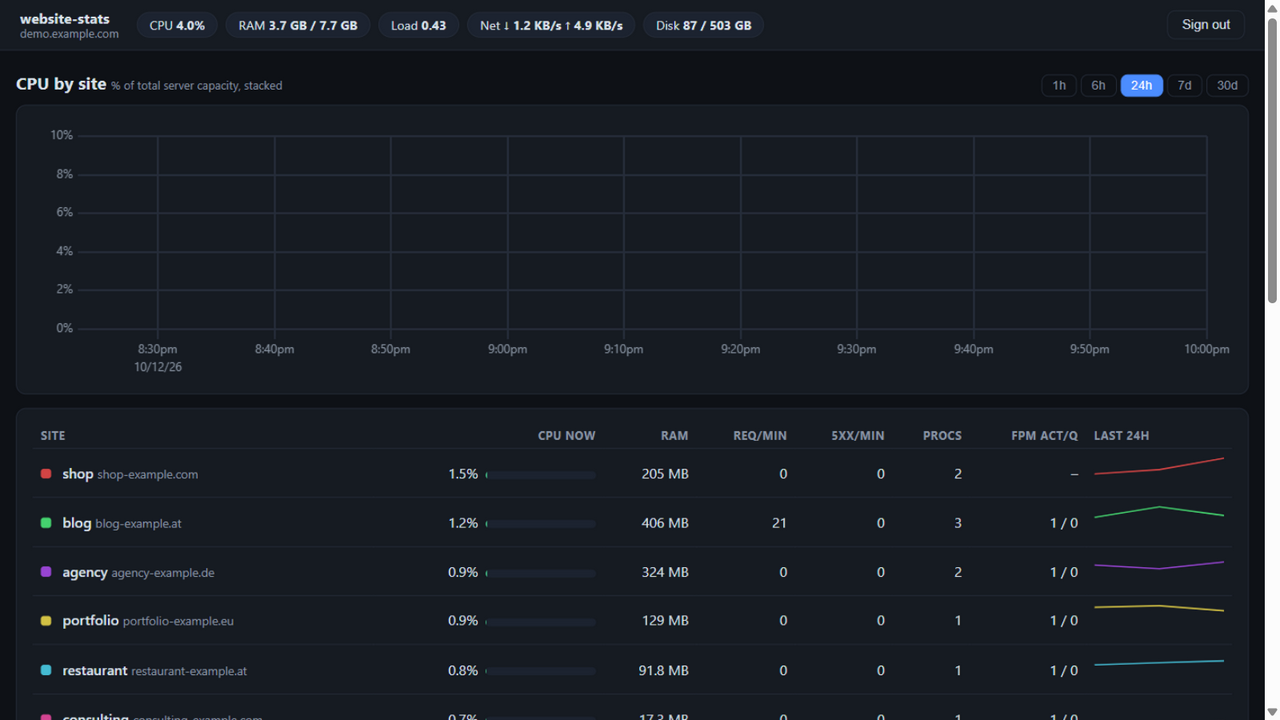
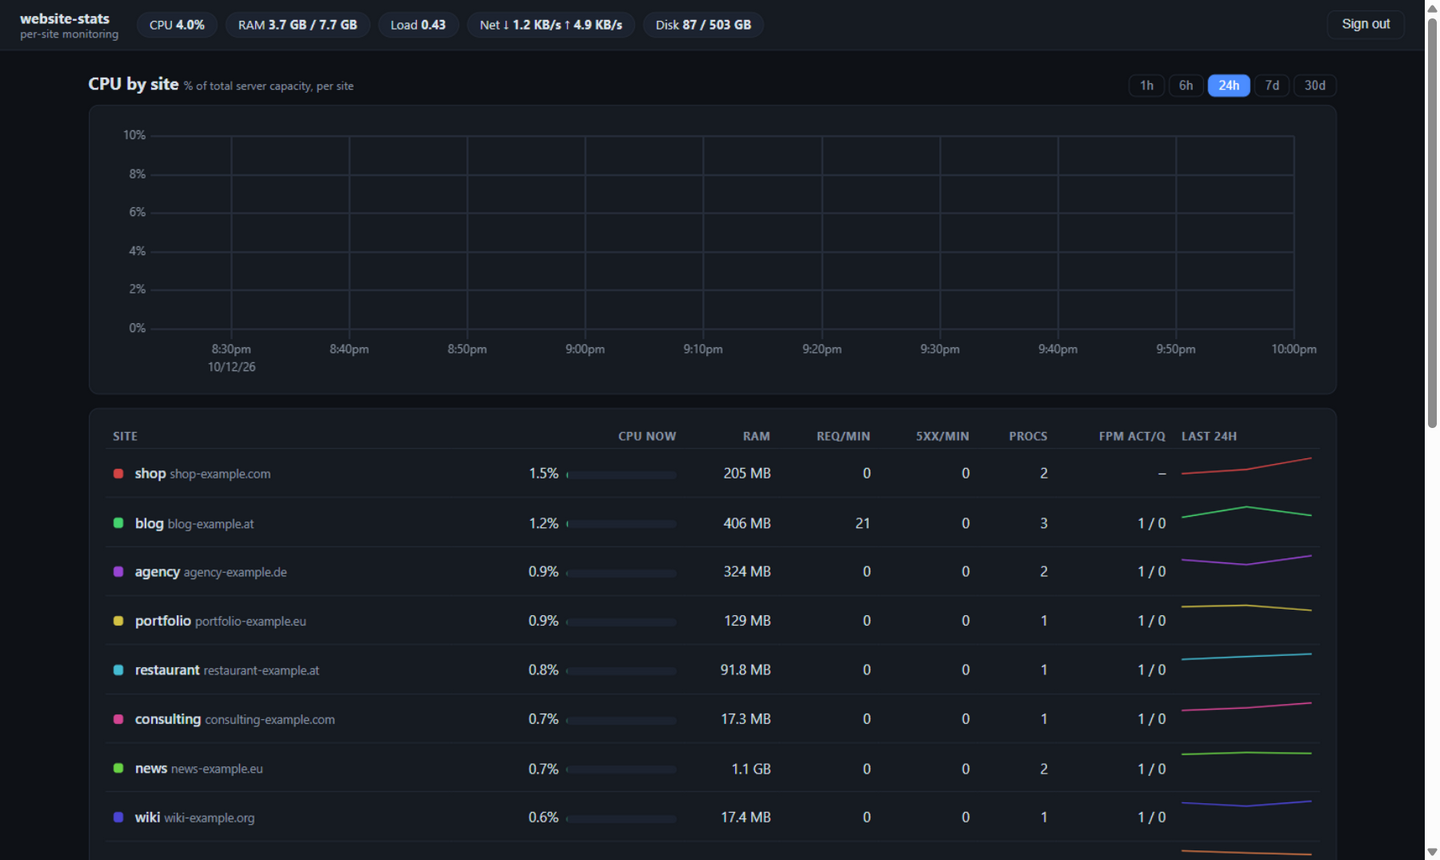
Rename project to SiteStats

diff --git a/internal/server/web/index.html b/internal/server/web/index.html
@@ -21,7 +21,7 @@
 
 <header class="topbar">
   <div class="brand">
-    <span class="brand-name">website-stats</span>
+    <span class="brand-name">SiteStats</span>
     <span class="brand-host">per-site monitoring</span>
   </div>
   <div class="chips" id="chips"></div>
@@ -88,6 +88,6 @@
 <footer>website-stats <span id="ver"></span> · times in your local timezone</footer>
 
 <script src="/static/uplot.iife.min.js?v=13"></script>
-<script src="/static/app.js?v=13"></script>
+<script src="/static/app.js?v=14"></script>
 </body>
 </html>

diff --git a/internal/server/web/app.js b/internal/server/web/app.js
@@ -33,7 +33,7 @@ function colorFor(key) {
     const g = Math.round(hue2rgb(pp, q, hue) * 255);
     const b = Math.round(hue2rgb(pp, q, hue - 1 / 3) * 255);
     const hex = "#" + [r, g, b].map((v) => v.toString(16).padStart(2, "0")).join("");
-    state.palette[key] = { hue: h * 360, css: hex, fill: `rgba(${r},${g},${b},0.82)` };
+    state.palette[key] = { css: hex, fill: `rgba(${r},${g},${b},0.82)` };
   }
   return state.palette[key];
 }

diff --git a/scripts/gen-demo.py b/scripts/gen-demo.py
@@ -1,22 +1,77 @@
-"""Regenerates build/repro/demo.html from the real index.html with a stubbed
-fetch serving build/repro/overview.json. Used to produce demo screenshots."""
+"""Builds build/repro/demo.html — the real dashboard UI rendered from an
+anonymized snapshot of captured API data. Used to produce README screenshots.
+
+Run from the repo root:  python scripts/gen-demo.py
+Requires build/captured-overview.json (a captured /api/overview response).
+"""
 import io
 import json
 import os
 import re
+import time
 
 ROOT = os.path.dirname(os.path.dirname(os.path.abspath(__file__)))
+REPRO = os.path.join(ROOT, "build", "repro")
+os.makedirs(REPRO, exist_ok=True)
 
+# ---- 1. load + anonymize + scale the captured overview ----
+ov = json.load(io.open(os.path.join(ROOT, "build", "captured-overview.json"), encoding="utf-8"))
+
+fake_domains = ["shop-example.com", "blog-example.at", "agency-example.de", "portfolio-example.eu",
+                "restaurant-example.at", "consulting-example.com", "news-example.eu", "wiki-example.org",
+                "app-example.io", "community-example.net", "docs-example.dev", "status-example.live",
+                "store-example.shop", "travel-example.at", "legal-example.de", "photo-example.com",
+                "school-example.edu", "events-example.at", "clinic-example.com", "foundation-example.org"]
+fake_names = ["shop", "blog", "agency", "portfolio", "restaurant", "consulting", "news", "wiki",
+              "app", "community", "docs", "status", "store", "travel", "legal", "photo",
+              "school", "events", "clinic", "foundation"]
+
+ip_map = {}
+def anon_ip(ip):
+    if ip not in ip_map:
+        ip_map[ip] = "198.51.100." + str(len(ip_map) % 254 + 1)
+    return ip_map[ip]
+
+SCALE = 6  # multiply CPU values so the demo chart bands are clearly visible
+
+for i, s in enumerate(ov.get("sites", [])):
+    if s["name"] == "_sys":
+        s["domain"] = "System services"
+    else:
+        if i < len(fake_names):
+            s["name"] = fake_names[i]
+            s["domain"] = fake_domains[i]
+    if s.get("series"):
+        s["series"] = [[t, round(v * SCALE, 2) if isinstance(v, (int, float)) else v] for t, v in s["series"]]
+    if s.get("topUrls"):
+        for u in s["topUrls"]:
+            u["value"] = u["value"].replace("translera", "myplugin")
+    if s.get("topIps"):
+        for u in s["topIps"]:
+            u["value"] = anon_ip(u["value"])
+ov["events"] = []
+
+# ---- 2. copy the real UI assets ----
+for name in ("uplot.iife.min.js", "app.js", "app.css"):
+    src = io.open(os.path.join(ROOT, "internal", "server", "web", name), encoding="utf-8").read()
+    io.open(os.path.join(REPRO, name), "w", encoding="utf-8", newline="\n").write(src)
+
+# ---- 3. build demo.html from the real index.html ----
 html = io.open(os.path.join(ROOT, "internal", "server", "web", "index.html"), encoding="utf-8").read()
 html = html.replace("<title>website-stats · cp1</title>", "<title>website-stats demo</title>")
 html = html.replace("cp1.reventor.eu", "demo.example.com")
 html = html.replace("/static/", "")
 html = re.sub(r"(\.js|\.css)\?v=\d+", r"\1", html)
-overview = io.open(os.path.join(ROOT, "build", "repro", "overview.json"), encoding="utf-8").read()
+
+overview_json = json.dumps(ov)
+v = str(int(time.time()))
+html = html.replace('<link rel="stylesheet" href="app.css">', f'<link rel="stylesheet" href="app.css?v={v}">')
+html = html.replace('<script src="uplot.iife.min.js">', f'<script src="uplot.iife.min.js?v={v}">')
+html = html.replace('<script src="app.js">', f'<script src="app.js?v={v}">')
 
 stub = (
     "<script>\n"
-    "const OVERVIEW = " + overview + ";\n"
+    "const OVERVIEW = " + overview_json + ";\n"
     "window.fetch = (url) => {\n"
     "  const u = String(url);\n"
     '  let body = "[]";\n'
@@ -25,13 +80,12 @@ stub = (
     '  return Promise.resolve(new Response(body, {status:200, headers:{"Content-Type":"application/json"}}));\n'
     "};\n"
     "</script>\n"
-    '<script src="uplot.iife.min.js"></script>'
 )
-tag = '<script src="uplot.iife.min.js"></script>'
-assert tag in html, "uplot script tag not found in index.html"
-html = html.replace(tag, stub)
+tag = '<script src="uplot.iife.min.js'
+assert tag in html, "uplot script tag not found"
+html = html.replace(tag, stub + tag)
 assert "loginForm" in html
 
-out = os.path.join(ROOT, "build", "repro", "demo.html")
+out = os.path.join(REPRO, "demo.html")
 io.open(out, "w", encoding="utf-8", newline="\n").write(html)
 print("demo.html written:", out)

diff --git a/cmd/sitestats/main.go b/cmd/sitestats/main.go
@@ -20,12 +20,12 @@ import (
 	"golang.org/x/term"
 	"gopkg.in/yaml.v3"
 
-	"website-stats/internal/alerter"
-	"website-stats/internal/config"
-	"website-stats/internal/engine"
-	"website-stats/internal/server"
-	"website-stats/internal/sites"
-	"website-stats/internal/store"
+	"github.com/REVENTOR-EU/SiteStats/internal/alerter"
+	"github.com/REVENTOR-EU/SiteStats/internal/config"
+	"github.com/REVENTOR-EU/SiteStats/internal/engine"
+	"github.com/REVENTOR-EU/SiteStats/internal/server"
+	"github.com/REVENTOR-EU/SiteStats/internal/sites"
+	"github.com/REVENTOR-EU/SiteStats/internal/store"
 )
 
 var configPaths = []string{

diff --git a/internal/engine/collector.go b/internal/engine/collector.go
@@ -9,11 +9,11 @@ import (
 	"sync/atomic"
 	"time"
 
-	"website-stats/internal/alerter"
-	"website-stats/internal/collect"
-	"website-stats/internal/config"
-	"website-stats/internal/sites"
-	"website-stats/internal/store"
+	"github.com/REVENTOR-EU/SiteStats/internal/alerter"
+	"github.com/REVENTOR-EU/SiteStats/internal/collect"
+	"github.com/REVENTOR-EU/SiteStats/internal/config"
+	"github.com/REVENTOR-EU/SiteStats/internal/sites"
+	"github.com/REVENTOR-EU/SiteStats/internal/store"
 )
 
 // Collector runs all collectors on their tickers and assembles per-minute

diff --git a/internal/server/server.go b/internal/server/server.go
@@ -16,10 +16,10 @@ import (
 
 	"golang.org/x/crypto/bcrypt"
 
-	"website-stats/internal/collect"
-	"website-stats/internal/config"
-	"website-stats/internal/engine"
-	"website-stats/internal/store"
+	"github.com/REVENTOR-EU/SiteStats/internal/collect"
+	"github.com/REVENTOR-EU/SiteStats/internal/config"
+	"github.com/REVENTOR-EU/SiteStats/internal/engine"
+	"github.com/REVENTOR-EU/SiteStats/internal/store"
 )
 
 //go:embed web

diff --git a/internal/alerter/alerter.go b/internal/alerter/alerter.go
@@ -6,8 +6,8 @@ import (
 	"fmt"
 	"time"
 
-	"website-stats/internal/collect"
-	"website-stats/internal/config"
+	"github.com/REVENTOR-EU/SiteStats/internal/collect"
+	"github.com/REVENTOR-EU/SiteStats/internal/config"
 )
 
 // Event is a fired alert.

diff --git a/internal/engine/demo.go b/internal/engine/demo.go
@@ -5,8 +5,8 @@ import (
 	"math"
 	"time"
 
-	"website-stats/internal/collect"
-	"website-stats/internal/sites"
+	"github.com/REVENTOR-EU/SiteStats/internal/collect"
+	"github.com/REVENTOR-EU/SiteStats/internal/sites"
 )
 
 type demoSim struct {

diff --git a/internal/alerter/notify.go b/internal/alerter/notify.go
@@ -9,7 +9,7 @@ import (
 	"strings"
 	"time"
 
-	"website-stats/internal/config"
+	"github.com/REVENTOR-EU/SiteStats/internal/config"
 )
 
 // NotifyEmail sends the alert via SMTP (STARTTLS when offered).

diff --git a/internal/collect/nginxlog.go b/internal/collect/nginxlog.go
@@ -9,7 +9,7 @@ import (
 	"sync"
 	"time"
 
-	"website-stats/internal/sites"
+	"github.com/REVENTOR-EU/SiteStats/internal/sites"
 )
 
 // TrafficMinute aggregates one site's HTTP traffic for one minute.

diff --git a/internal/collect/proc.go b/internal/collect/proc.go
@@ -8,7 +8,7 @@ import (
 	"strconv"
 	"time"
 
-	"website-stats/internal/sites"
+	"github.com/REVENTOR-EU/SiteStats/internal/sites"
 )
 
 const clkTck = 100 // kernel USER_HZ on all supported platforms

diff --git a/internal/store/store.go b/internal/store/store.go
@@ -10,7 +10,7 @@ import (
 
 	_ "modernc.org/sqlite"
 
-	"website-stats/internal/collect"
+	"github.com/REVENTOR-EU/SiteStats/internal/collect"
 )
 
 type Store struct {
